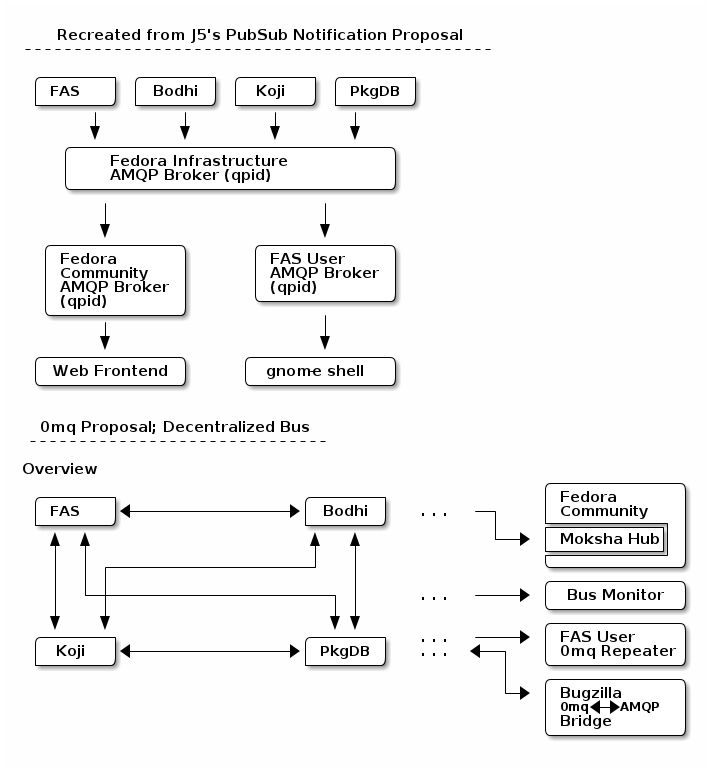
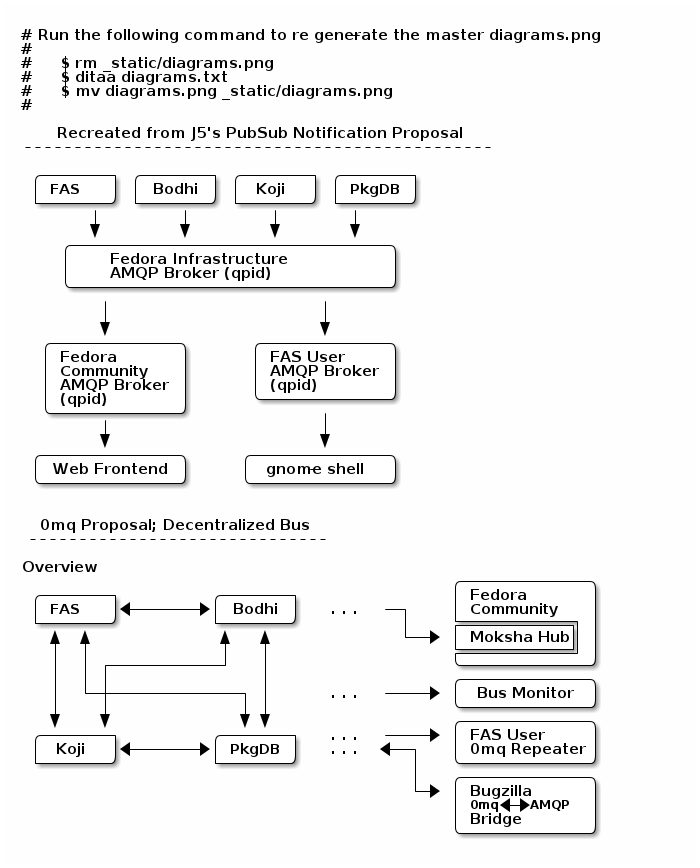
Diagrams, more writing.

diff --git a/doc/proposal.rst b/doc/proposal.rst
@@ -88,6 +88,143 @@ post-update hook (instead of coupling its own implementation with fedpkg's).
 A message bus architecture, once complete, would dramatically reduce the work
 required to update and maintain services in the Fedora infrastructure.
 
+Other benefits
+--------------
+
+By adopting a messaging strategy for Fedora Infrastructure we could gain:
+
+ - A stream of data which we can watch and from which we can garner statistics
+   about infrastructure activity.
+ - The de-coupling of services from one another.
+ - libnotify notifications to developers' desktops.
+ - jquery.gritter.js notifications to web interfaces.
+
+   - this could be generalized to a ``fedmsg.wsgi`` middleware layer that
+     injects a fedora messaging dashboard header into every page served by apps
+     `X`, `Y`, and `Z`.
+
+ - An irc channel, #fedora-firehose that echoes every message on the bus.
+ - An identi.ca account, @fedora-firehose, that echoes every message on the bus.
+
+AMQP, QMF, and 0mq
+==================
+
+AMQP and QMF or "Broker?  Damn near killed 'er!"
+------------------------------------------------
+
+When discussions on the `Fedora Messaging SIG
+<http://fedoraproject.org/wiki/Messaging_SIG>`_ began, AMQP was the choice by
+default.  Since then members of the SIG have become attracted to an alternative
+messaging interface called `0mq <http://www.zeromq.org>`_.
+
+Recommended reading:
+
+ - `What's wrong with AMQP
+   <http://www.imatix.com/articles:whats-wrong-with-amqp>`_
+
+The following is recreated from J5's Publish/Subscribe Messaging Proposal
+as an example of how Fedora Infrastructure could be reorganized with AMQP
+and a set of federated AMQP brokers (qpid).
+
+.. image:: _static/reorganize-amqp-j5.png
+
+The gist is that each service in the Fedora Infrastructure would have the
+address of a central message broker on hand.  On startup, each service would
+connect to that broker, ask the broker to establish its outgoing queues, and
+begin publishing messages.  Similarly, each service would ask the broker to
+establish incoming queues for them.  The broker would handle the routing of
+messages based on ``routing_keys`` (otherwise known as `topics`) from each
+service to the others.
+
+The downshot, in short, is that AMQP requires standing up a single central
+broker and thus a single-point-of-failure.  In the author's work on `narcissus
+<http://narcissus.rc.rit.edu>`_ I found that for even the most simple of AMQP
+configurations, my qpid brokers' queues would bloat over time until \*pop\*,
+the broker would fall over.
+
+TODO -- write about QMF
+
+0mq or "Going for Broke(rless)"
+-------------------------------
+
+0mq is developed by a team that had a hand in the original development of AMQP.
+It claims to be a number of things: an "intelligent transport layer",
+a "socket library that acts as a concurrency framework", and the `sine qua non`
+"Extra Spicy Sockets!"
+
+Recommended reading:
+ - `The Z-guide <http://zguide.zeromq.org/page:all>`_
+
+The following depicts an overview of a subset of Fedora Infrastructure
+organized with a decentralized 0mq bus parallel to the spirit of J5's
+recreated diagram in the AMQP section above.
+
+.. image:: _static/reorganize-0mq-overview.png
+
+No broker.  The gist is that each service will open a port and begin
+publishing messages ("bind to" in zmq-language).  Each other service will
+connect to that port to begin consuming messages.  Without a central broker
+doing `all the things
+<http://www.imatix.com/articles:whats-wrong-with-amqp>`_, 0mq can afford a high
+throughput.  For instance, in initial tests of a 0mq-enabled `moksha hub
+<http://moksha.fedorahosted.org>`_, the Fedora Engineering Team achieved a
+100-fold speedup over AMQP.
+
+Service discovery
+~~~~~~~~~~~~~~~~~
+
+Shortly after you begin thinking over how to enable Fedora Infrastructure to
+pass messages over a `fabric` instead of to a `broker`, you arrive at the
+problem we'll call "service discovery".
+
+In reality, (almost) every service both `produces` and `consumes` messages.  For
+the sake of argument, we'll talk here just about a separate `producing
+service` and some `consuming services`.
+
+Scenario:  the producing service starts up, producing socket (with a hidden
+queue), and begins producing messages.  Consuming services `X`, `Y`, and `Z`
+are interested in this and they would like to connect.
+
+With AMQP, this is simplified.  You have one central broker and each consuming
+service need only know it's one address.  They connect and the match-making is
+handled for them.  With 0mq, each consuming service needs to somehow
+`discover` its producer(s) address(es).
+
+TODO - working here.
+- write our own broker
+- dns
+- txt file
+
+sparse topics
+-------------
+
+Different buses
+---------------
+
+- critical and statistical buses (critical is subset of statistical).
+
+Authn, authz
+------------
+
+(func has certs laying around already).
+
+network load
+------------
+
+- calculate network load -
+http://lists.zeromq.org/pipermail/zeromq-dev/2010-August/005254.html
+
+fringe services
+---------------
+
+- example of building a relay that condenses messages from `n` proxies and
+re-emits them.
+- example of bridging amqp and 0mq
+- bugzilla-push - https://github.com/LegNeato/bugzilla-push
+
+
+
+
 Namespace considerations
 ------------------------
 
@@ -112,75 +249,28 @@ implementation of the rest of the infrastructure.  We could replace `bugzilla`
 with `pivotal` and bodhi would never know the difference - a ticket is a
 ticket.
 
+The scheme
+----------
+
 At the time of this writing, we are moving ahead with the object-oriented
 approach where event topics will follow the rule::
 
  org.fedoraproject.OBJECT[.SUBOBJECT].EVENT
 
-Where ``OBJECT`` is something like `package`, `user`, or `tag`, ``SUBOBJECT`` is something like
-`owner` or `build` (in the case where ``OBJECT`` is `package`), and ``EVENT`` is
-something like `update`, `new`, or `complete`.
+Where:
 
-Other benefits
-==============
-
-By adopting a messaging strategy for Fedora Infrastructure we could gain:
-
- - A stream of data which we can watch and from which we can garner statistics
- - The de-coupling of services from one another.
- - libnotify notifications to developers' desktops.
- - jquery.gritter.js notifications to web interfaces.
-
-   - this could be generalized to a ``fedmsg.wsgi`` middleware layer that
-     injects a fedora messaging dashboard header into every page served by apps
-     `X`, `Y`, and `Z`.
-
- - An irc channel, #fedora-firehose that echoes every message on the bus.
- - An identi.ca account, @fedora-firehose, that echoes every message on the bus.
+ - ``OBJECT`` is something like `package`, `user`, or `tag`
+ - ``SUBOBJECT`` is something like `owner` or `build` (in the case where
+   ``OBJECT`` is `package`, for instance)
+ - ``EVENT`` is something like `update`, `new`, or `complete`
 
 
 
-AMQP, QMF, and 0mq
-==================
-
-
-*TODO*
- - introduce AMQP
-
-   - introduce QMF
-
- - introduce 0mq
-
-   - critical and statistical buses (critical is subset of statistical).
-   - calculate network load -
-     http://lists.zeromq.org/pipermail/zeromq-dev/2010-August/005254.html
-   - auth (func has certs laying around already).
-   - service discovery
-
-     - dns
-     - txt file
-
-Examples of reorganization
---------------------------
-
-*TODO*:
-
- - present flow diagram
- - AMQP flow diagram
- - various 0mq flow diagrams
-
-   - example of building a relay that condenses messages from `n` proxies and
-     re-emits them.
-
-Code Examples
-=============
+Code Examples - 0mq and ``fedmsg``
+==================================
 
 Examples of emitting events
 ---------------------------
-
-.. make these into doc-tests where possible
-
-*TODO* -- bugzilla-push - https://github.com/LegNeato/bugzilla-push
 
 Examples of consuming events
 ----------------------------
